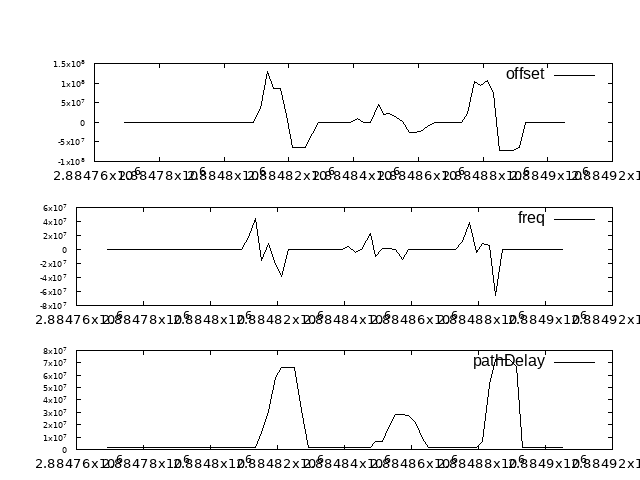
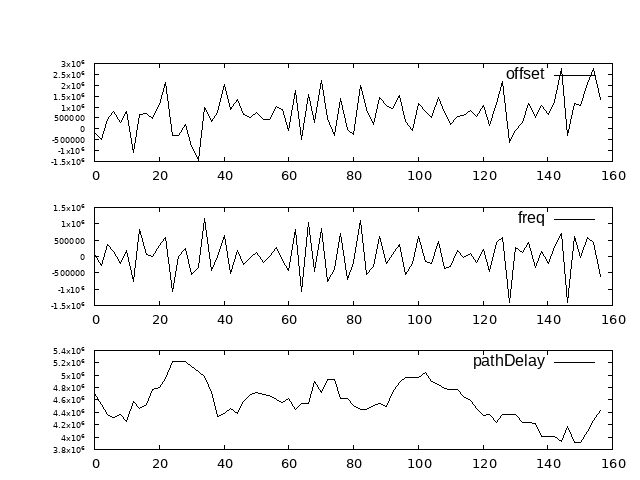
tested with 10 switches

diff --git a/linuxptp/plot/parse.py b/linuxptp/plot/parse.py
@@ -10,6 +10,7 @@ maxKernelTime = 1000;
 pattern = '^(.*)ptp4l\[(.+)\]: master offset\s+(-?[0-9]+) s([012]) freq\s+([+-]\d+) path delay\s+(-?\d+)$'
 test_string = 'ptp4l[214733.206]: master offset     -28767 s0 freq  -25546 path delay    130743'
 # Gnuplot data header
+firstTime = 0
 print('# time, offset, freq, pathDelay')
 for line in fileinput.input():
     # Regex search
@@ -24,5 +25,10 @@ for line in fileinput.input():
         freq         = res.group(5)
         pathDelay    = res.group(6)
 
+        #shift X to the first value
+        if firstTime == 0:
+            firstTime = float(kernelTime)
+        kernelTime = float(kernelTime) - firstTime
+         
         #if (state == '2') and (float(kernelTime) > minKernelTime) and (float(kernelTime) < maxKernelTime):
         print(kernelTime, masterOffset, freq, pathDelay)

diff --git a/linuxptp/tc-ptp4l/main.py b/linuxptp/tc-ptp4l/main.py
@@ -43,7 +43,7 @@ class ExerciseTopo(Topo):
                 # add default switch
                 switchClass = None
 
-            self.addSwitch(sw, log_dir=log_dir, config=params["config"], cls=switchClass)
+            self.addSwitch(sw, inNamespace=True, log_dir=log_dir, config=params["config"], cls=switchClass)
 
         for link in host_links:
             host_name = link['node1']
